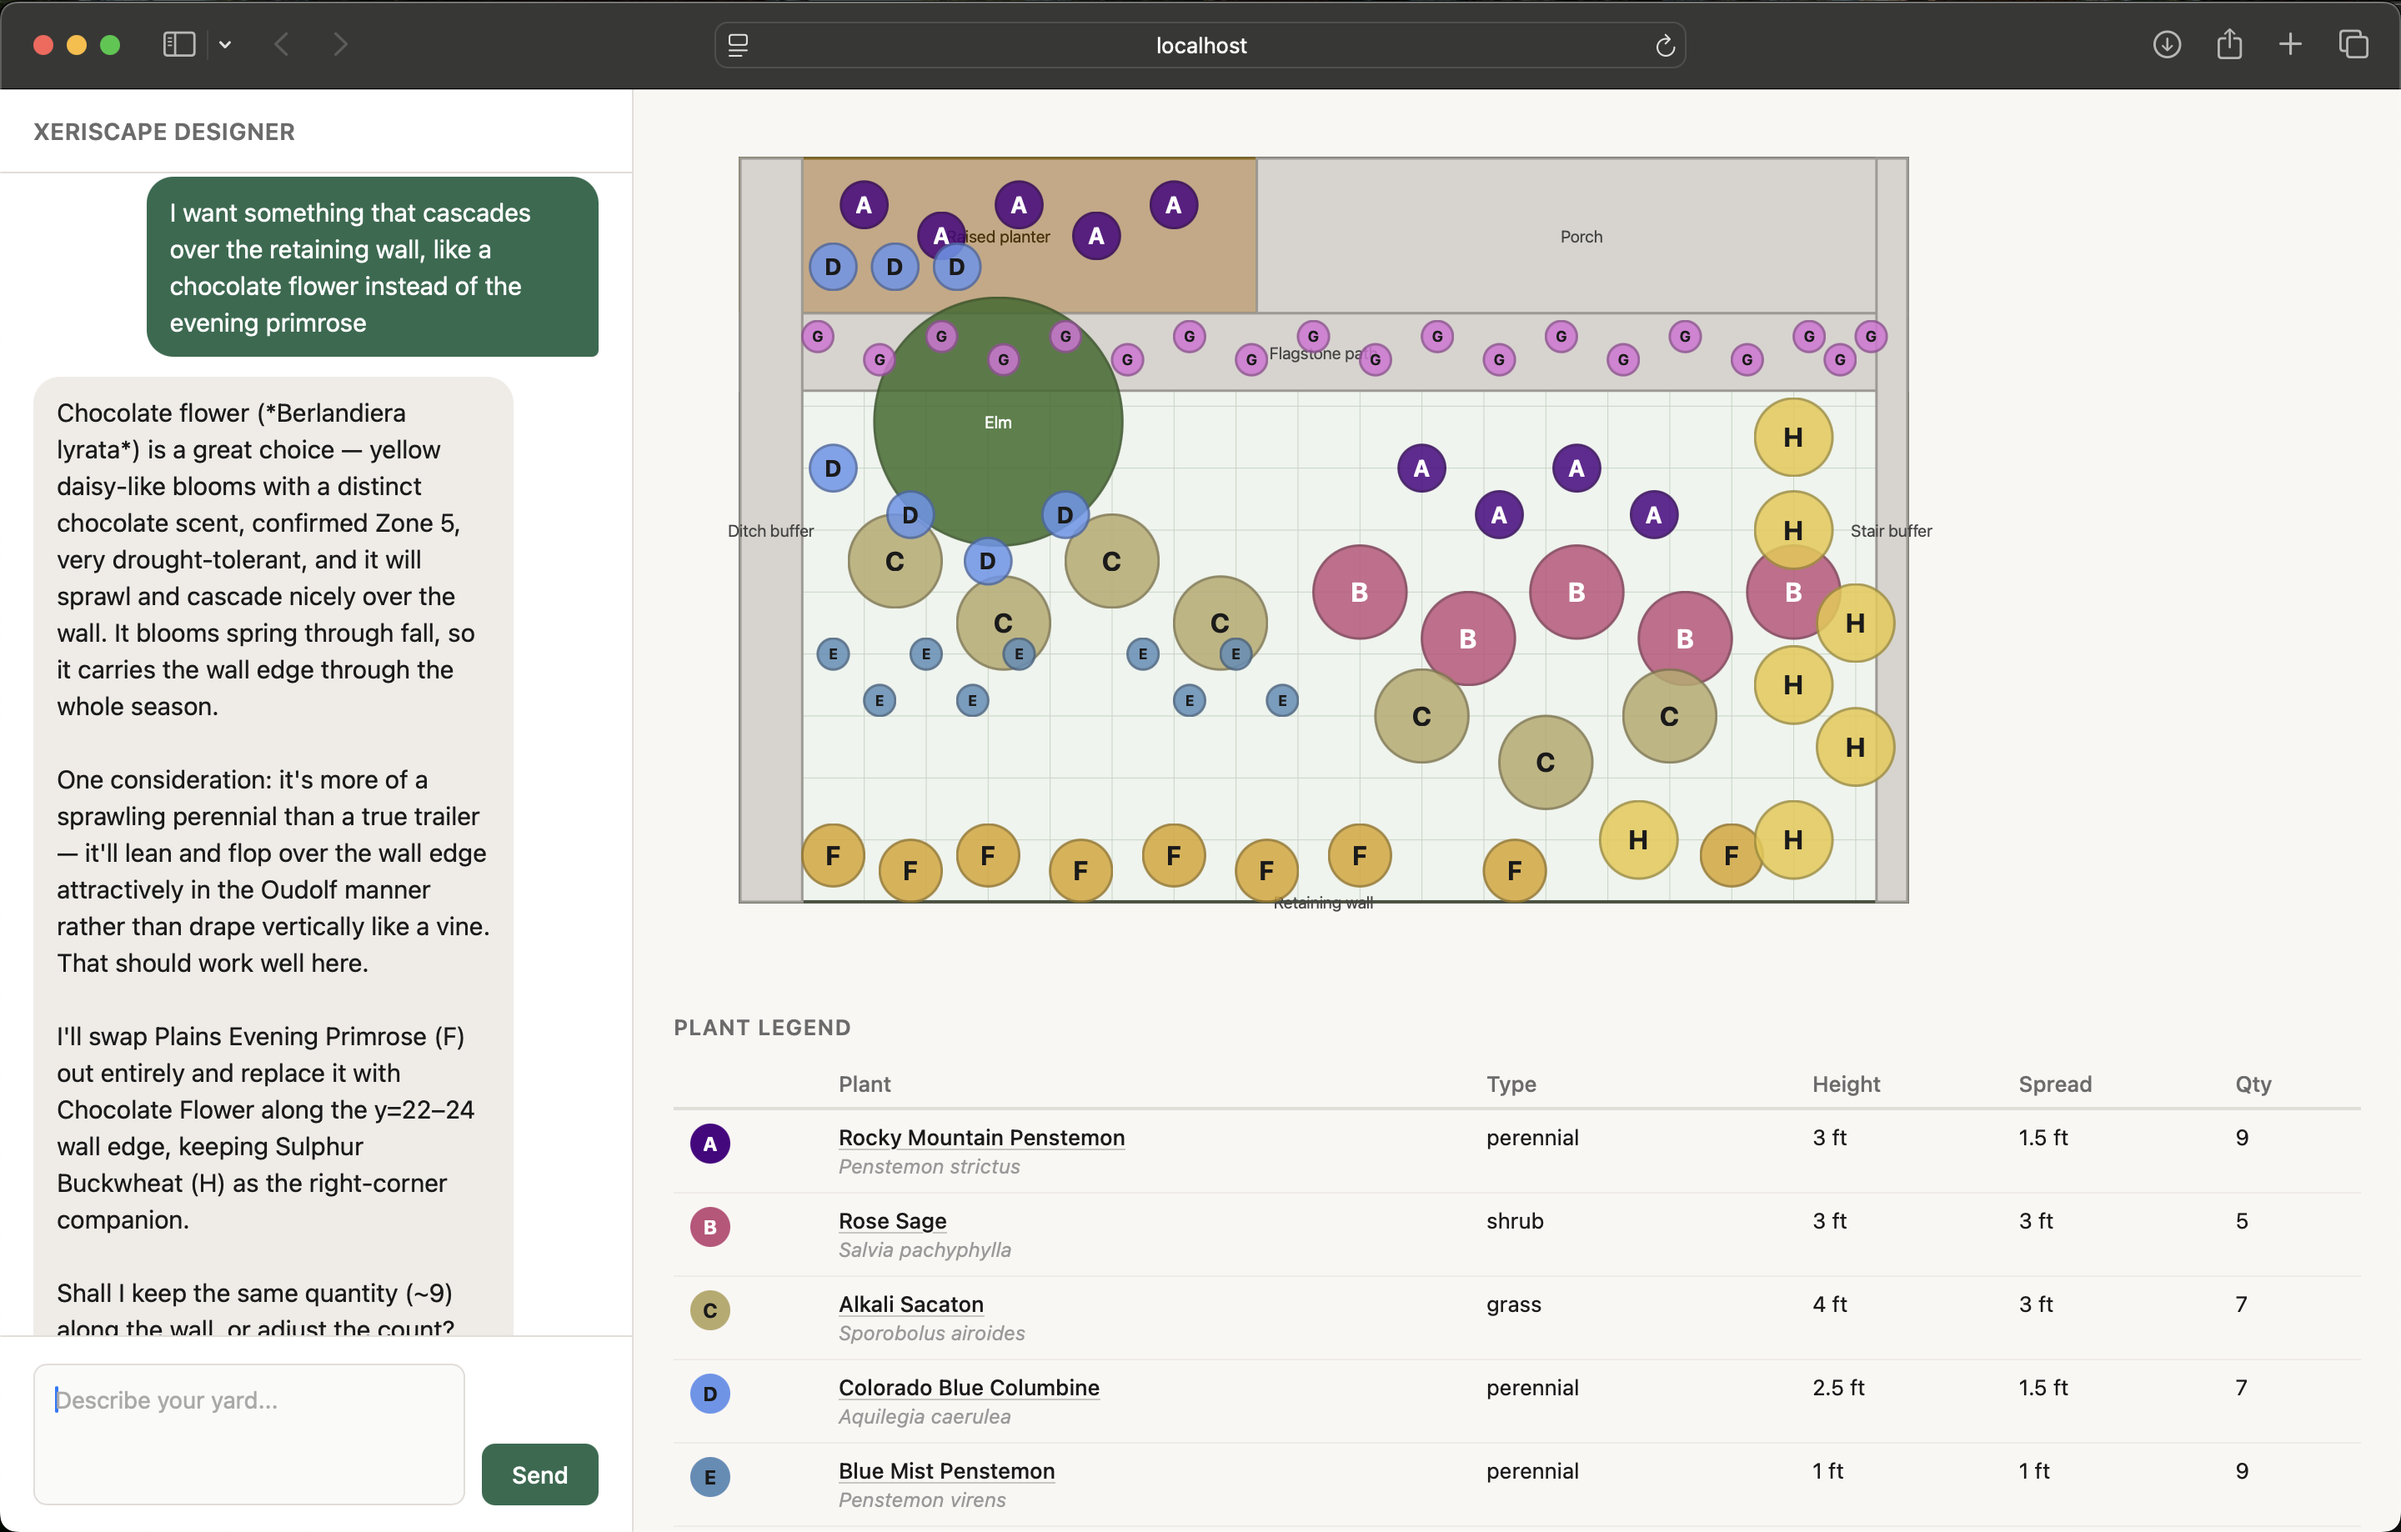
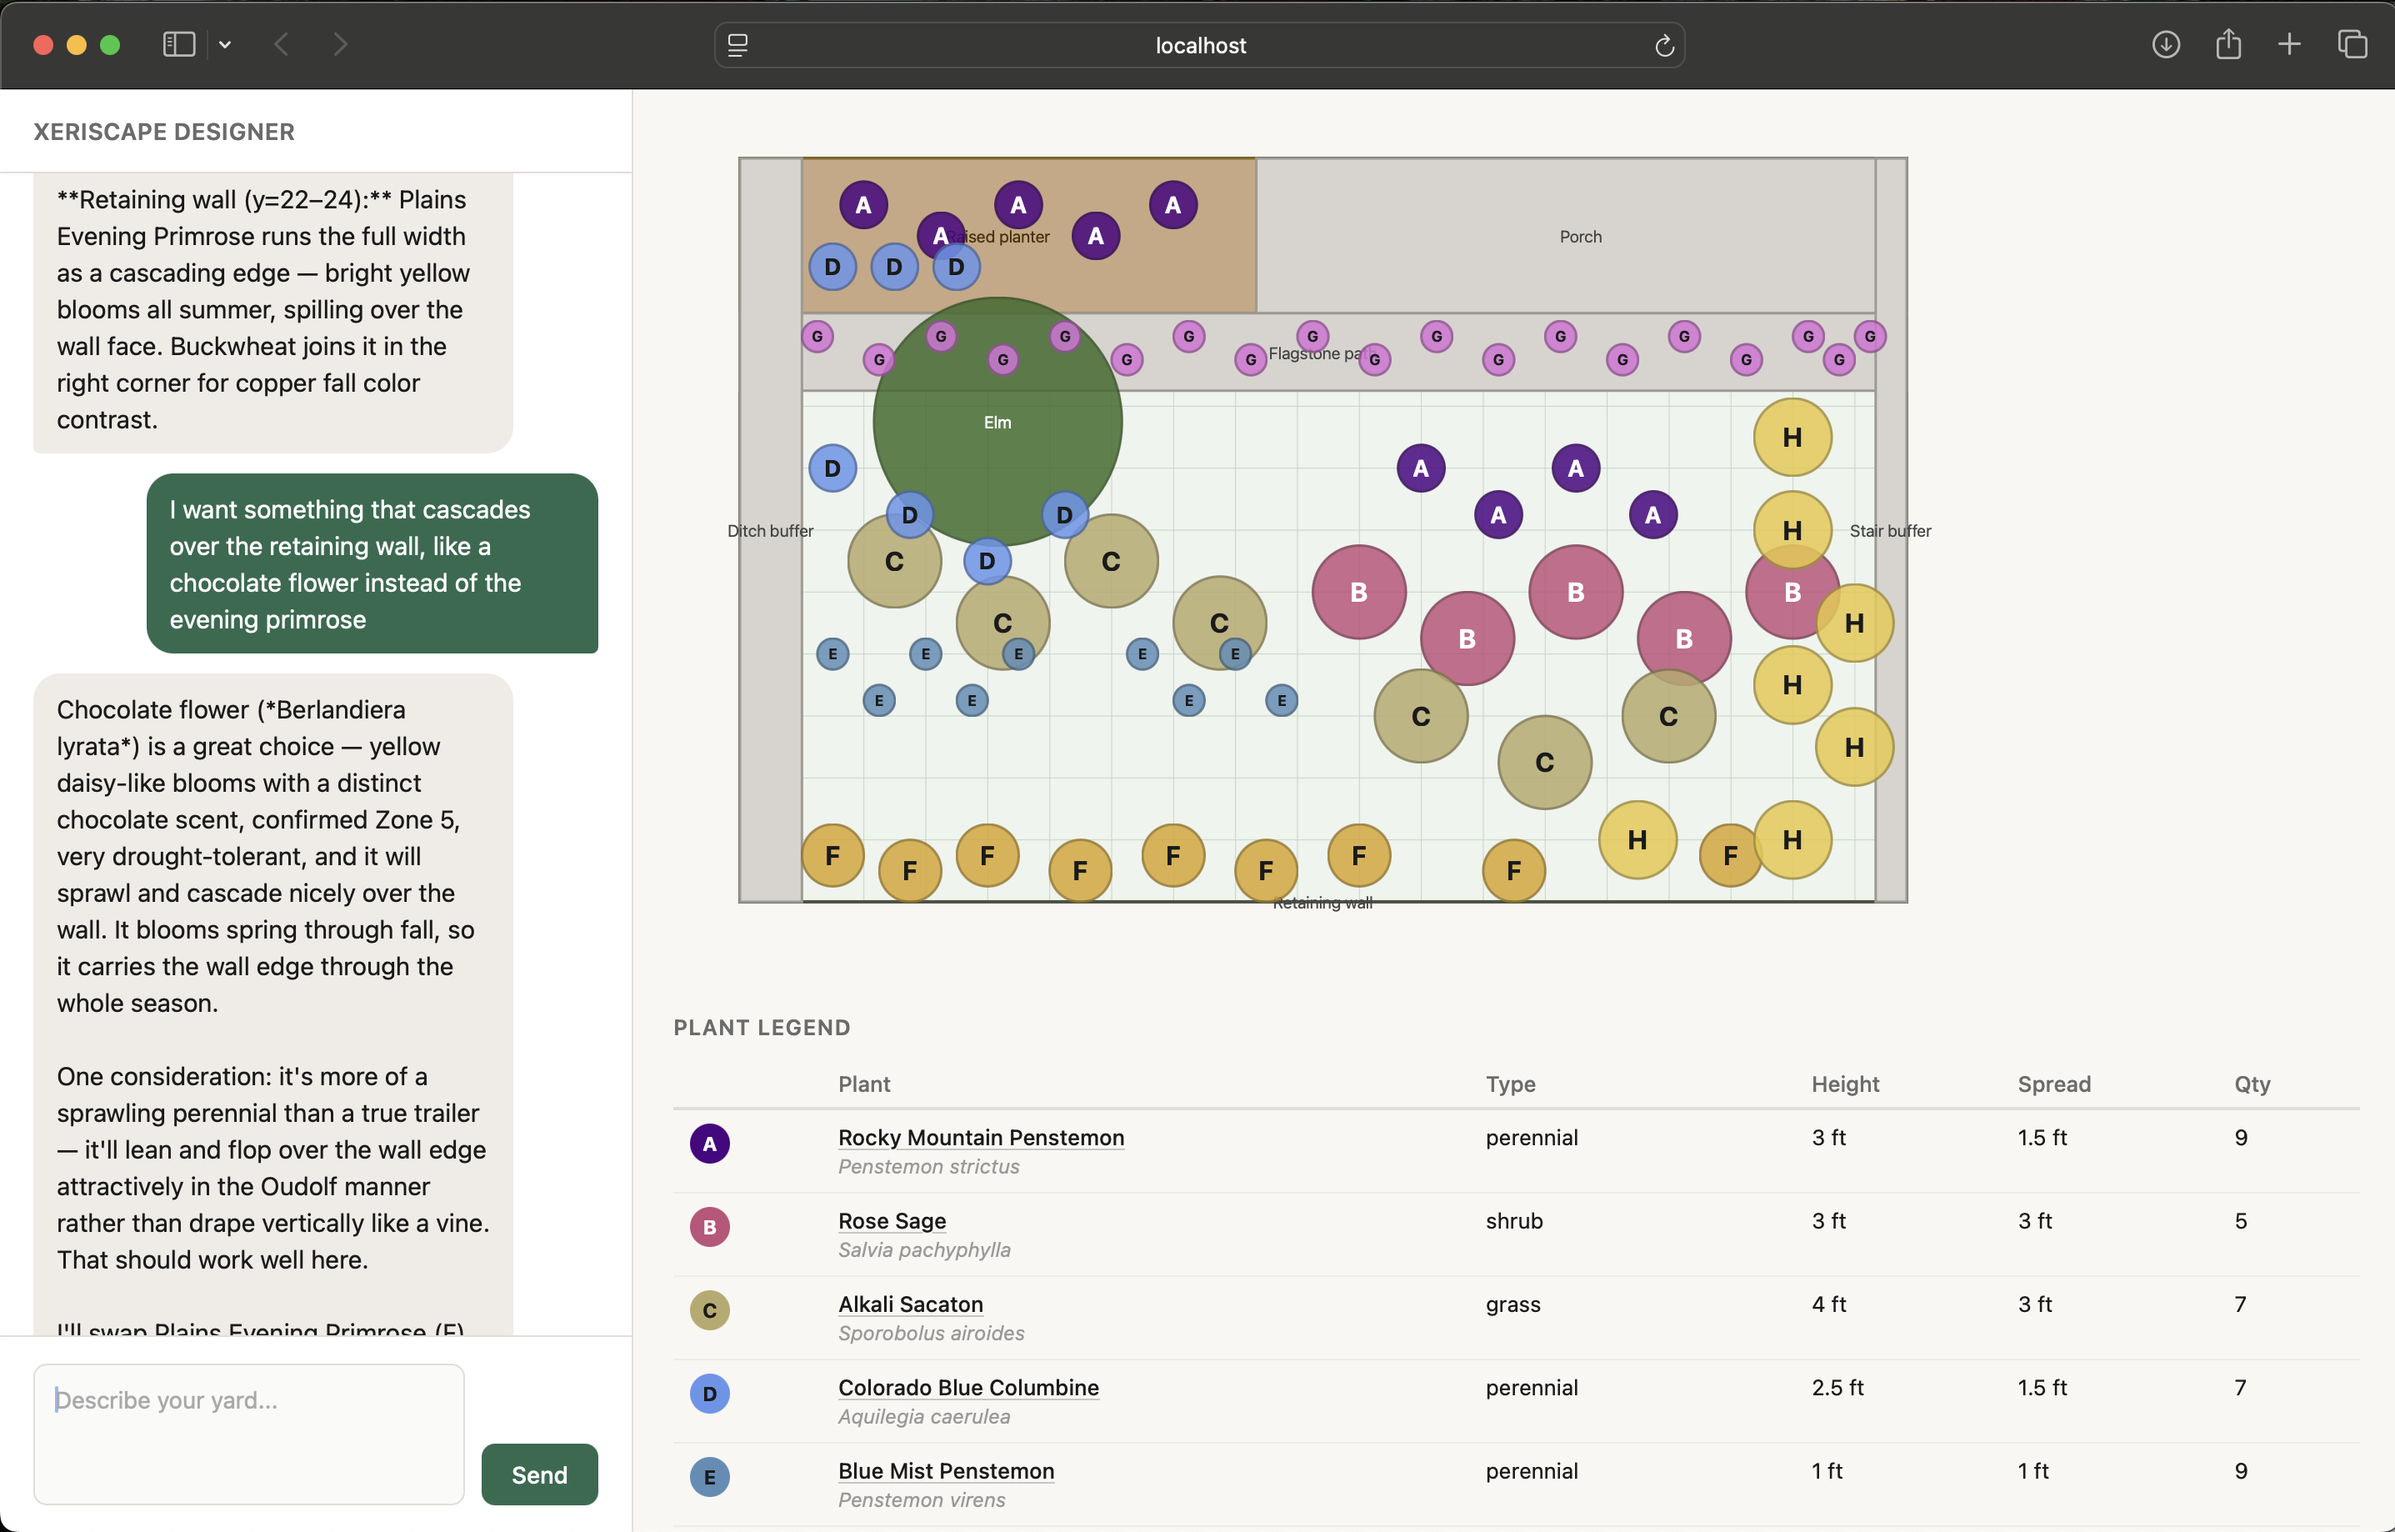
Update readme with better visuals and context

diff --git a/README.md b/README.md
@@ -4,6 +4,10 @@ An AI-assisted web app for designing drought-tolerant yards. Describe your yard 
 
 ![Xeriscape Designer UI](docs/view_ui.png)
 
+## Why
+
+I love gardening and visualizing what gardens can be — learning which plants belong in a place, imagining a space in different lights and seasons. But overgrown and untended yards are intimidating, and knowing where to start with native plants isn't always obvious. That's why I built this: so you can describe a neglected corner of your yard and get back an actual design, native plants placed, with a diagram to work from.
+
 ## What it does
 
 1. Describe your yard conversationally — dimensions, existing trees, planters, paths, and any spatial relationships ("tree is 10'-6" from the planter")
